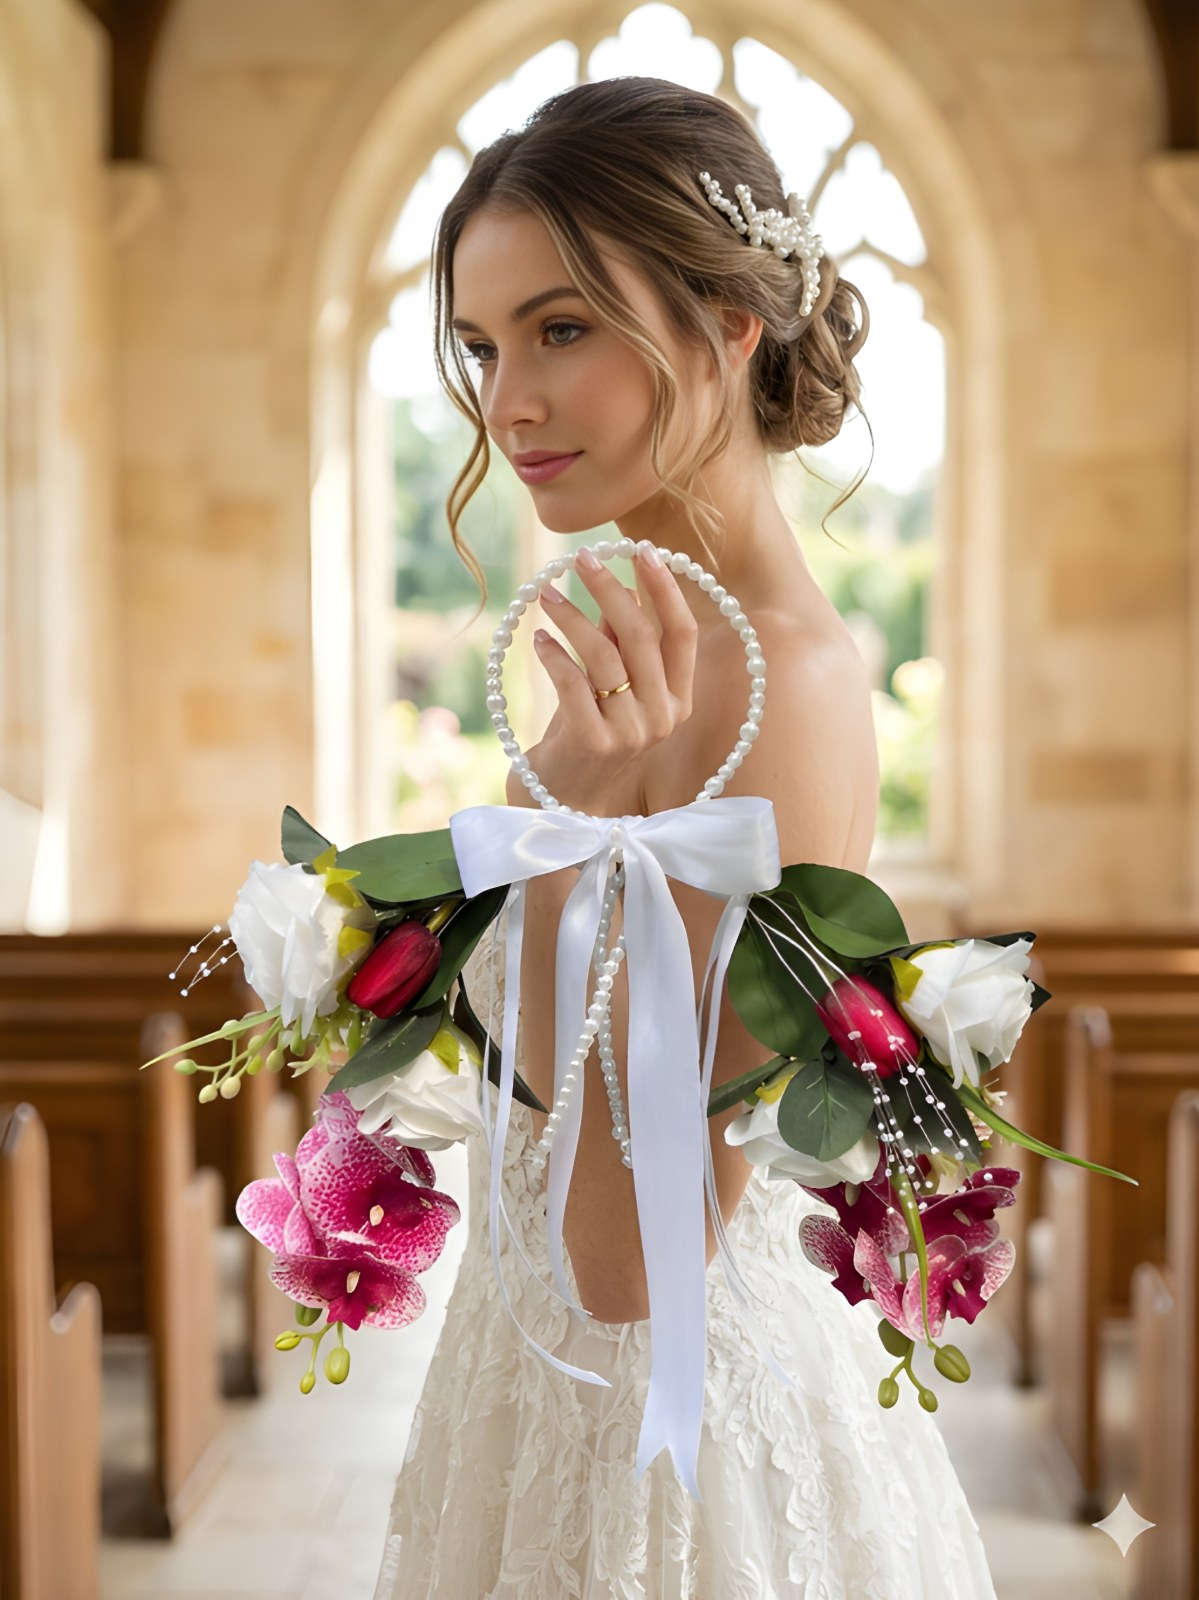
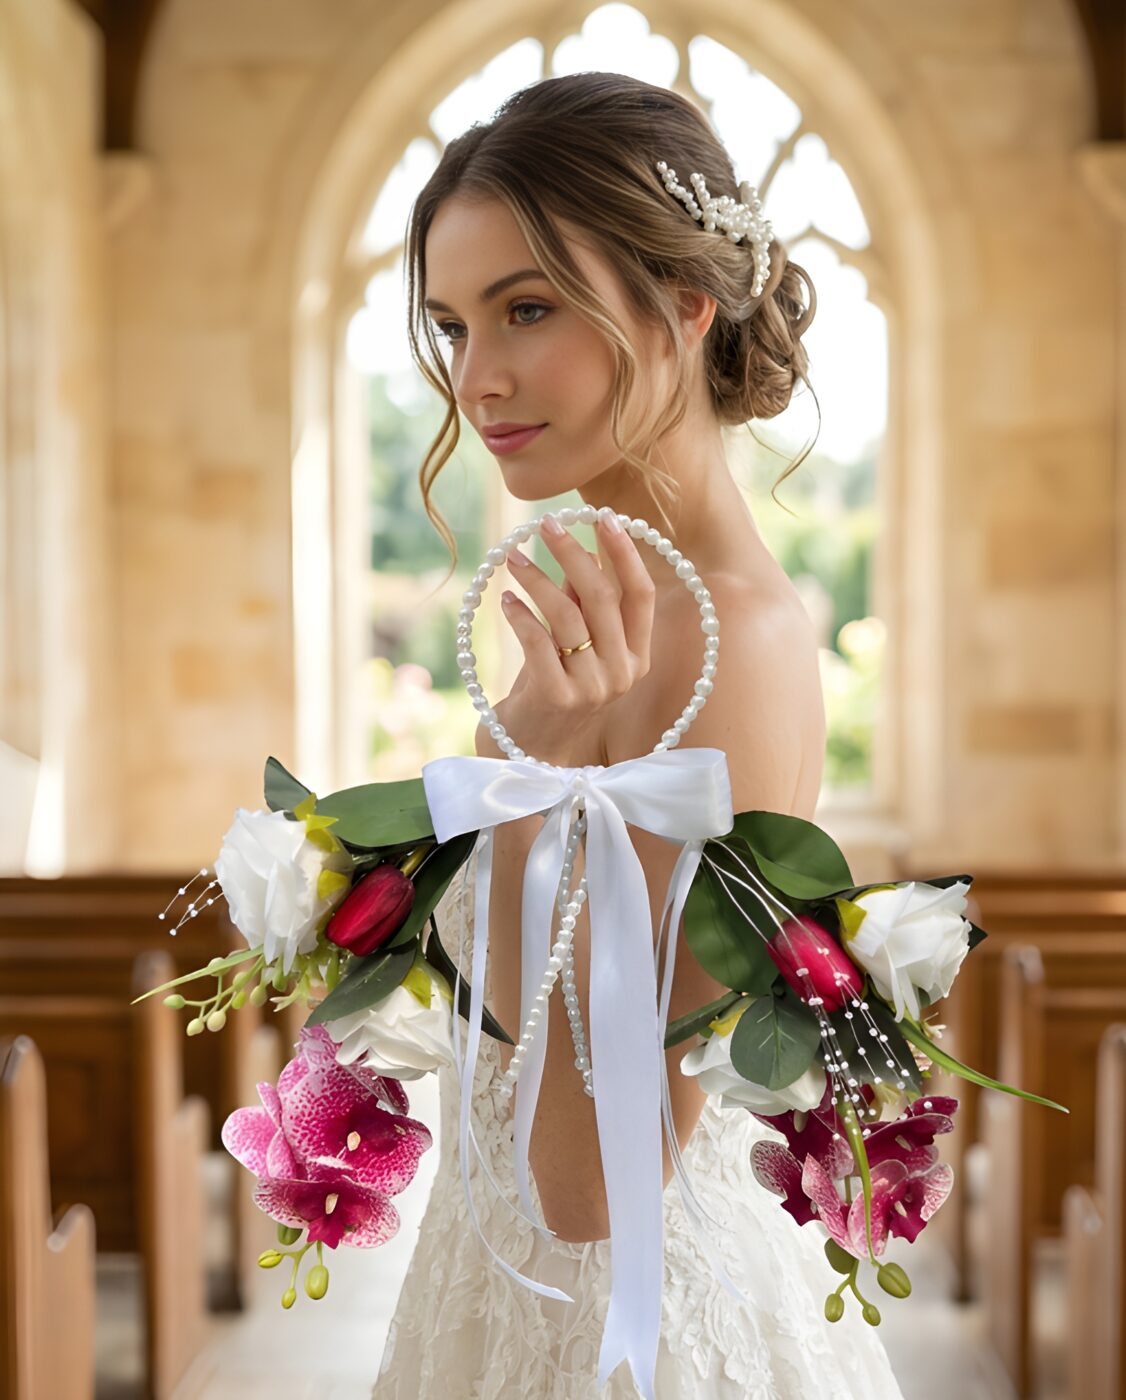
Compress all images — reduce page weight from 33MB to ~1MB
https://claude.ai/code/session_01F4sQttDnBQcDrj8eztVe1M

diff --git a/index.html b/index.html
@@ -2023,7 +2023,7 @@ function Site() {
           <button className="btn btn-ghost" onClick={scrollTo('#services')}>{t.hero.cta_alt}</button>
         </div>
         <div className="hero-tile">
-          <img src="assets/atelier-hero.png" alt="Modni atelje Violeta" />
+          <img src="assets/atelier-hero.jpg" alt="Modni atelje Violeta" />
         </div>
         <div className="hero-tag">— {t.blessing.sig}</div>
       </section>
@@ -2040,7 +2040,7 @@ function Site() {
         </header>
         <div className="story-grid">
           <div className="story-portrait">
-            <img src="assets/violeta-portrait.png" alt="Violeta · Modni atelje" />
+            <img src="assets/violeta-portrait.jpg" alt="Violeta · Modni atelje" />
           </div>
           <div className="story-text">
             <p>

diff --git a/data.js b/data.js
@@ -84,7 +84,7 @@ const BRIDES = [
   },
   {
     id: "bride-2",
-    src: "assets/bride-2.png",
+    src: "assets/bride-2.jpg",
     sr: { caption: "Orhideje i ruže", place: "Manastir · 2024" },
     en: { caption: "Orchids & roses", place: "Monastery · 2024" },
   },
@@ -96,7 +96,7 @@ const BRIDES = [
   },
   {
     id: "bride-4",
-    src: "assets/bride-4.png",
+    src: "assets/bride-4.jpg",
     sr: { caption: "Bele ruže", place: "Atelje · 2024" },
     en: { caption: "White roses",  place: "Atelier · 2024" },
   },
